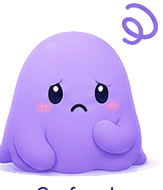
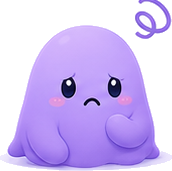
Re-crop all 30 non-hero mascot poses from the source sheet: the previous extraction included each pose's caption text (e.g. "New Word!", "With Pencil") baked into the transparent PNG, which looked broken/cropped wherever the pose was shown small. Auto-detected the true content boundary per cell (gap

diff --git a/index.html b/index.html
@@ -109,7 +109,7 @@
 
   /* ---- mascot chip (reused header thumbnail across every screen) ---- */
   .mchip{ width:56px; height:56px; border-radius:var(--radius-md); overflow:hidden; background:var(--tint); flex-shrink:0; display:flex; }
-  .mchip img{ width:100%; height:130%; object-fit:cover; object-position:50% 0%; display:block; }
+  .mchip img{ width:100%; height:100%; object-fit:contain; object-position:50% 100%; display:block; }
   .mchip.sm{ width:34px; height:34px; border-radius:var(--radius-md); }
 
   /* ---- screen header (back button + title only — no mascot/subtitle;

diff --git a/sw.js b/sw.js
@@ -1,5 +1,5 @@
 // Basit çevrimdışı önbellek — app kabuğunu saklar
-const CACHE = "english-app-v6-auto-update";
+const CACHE = "english-app-v7-mascot-recrop";
 const ASSETS = [
   "./", "./index.html", "./manifest.webmanifest", "./icon-192.png", "./icon-512.png",
   "./assets/reading-library.json",
